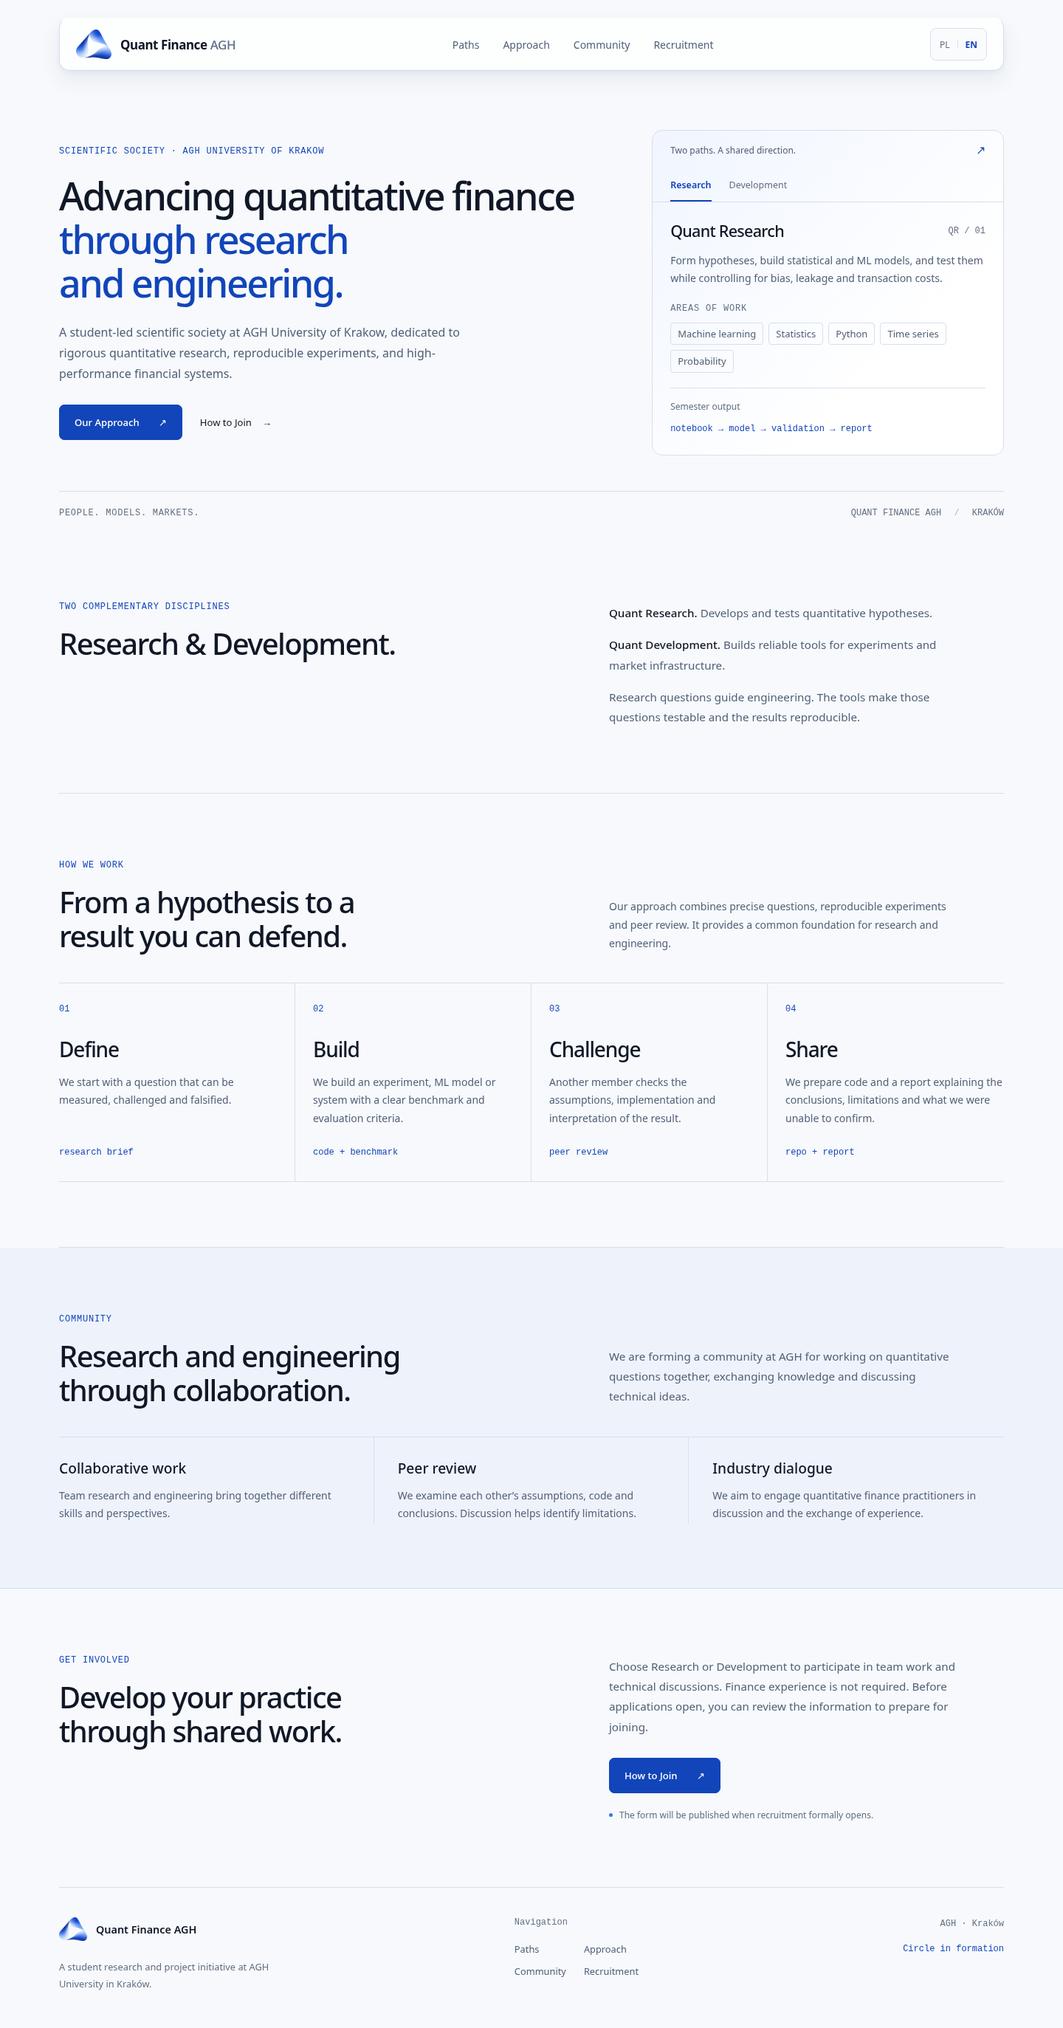
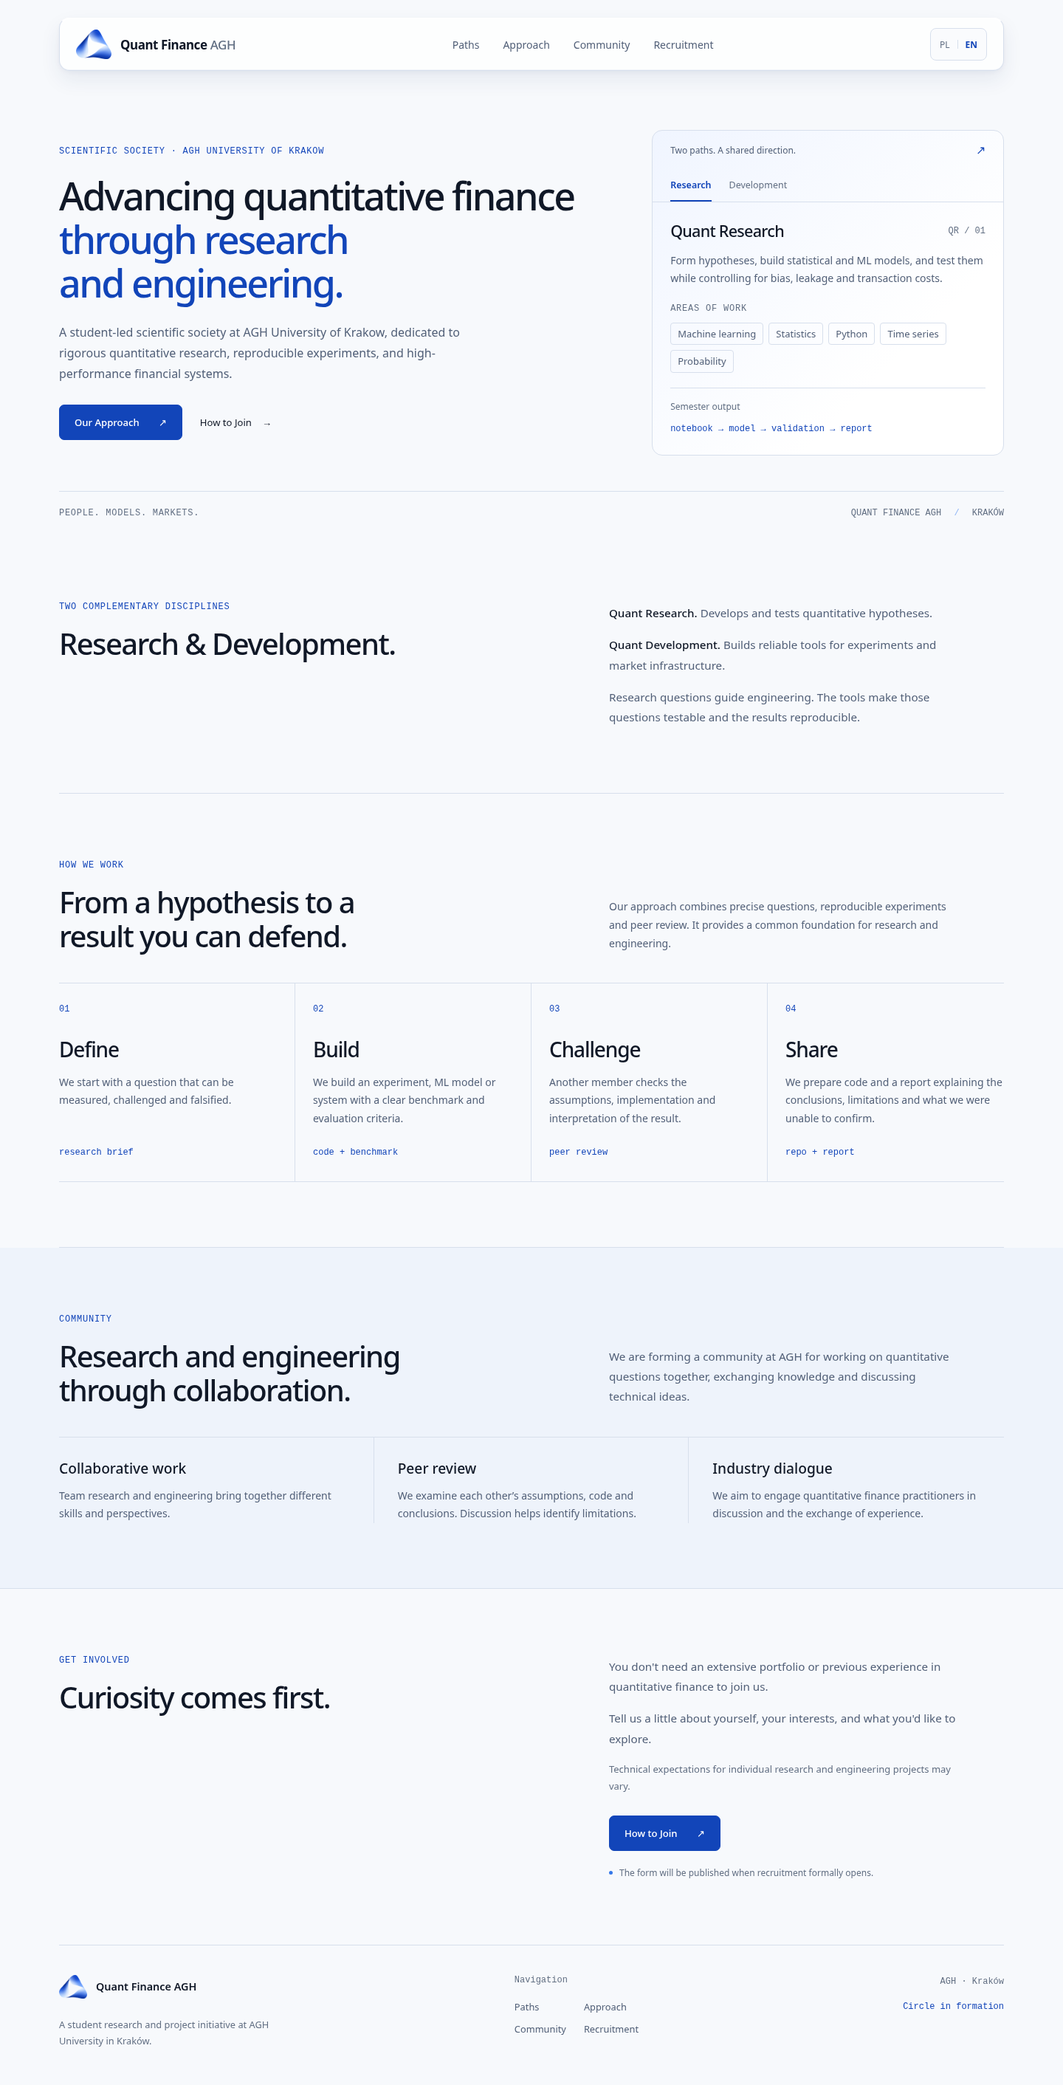
Make society recruitment approachable with a short application preview

diff --git a/src/content.ts b/src/content.ts
@@ -72,14 +72,20 @@ export type SiteCopy = {
   recruitment: {
     eyebrow: string;
     title: string;
-    description: string;
+    description: string[];
+    supportingNote: string;
     formLabel: string;
     previewAction: string;
     closePreview: string;
     sheetEyebrow: string;
     sheetTitle: string;
     sheetDescription: string;
-    items: Array<{ index: string; title: string; description: string }>;
+    items: Array<{ title: string; description: string }>;
+    membershipTitle: string;
+    membershipDescription: string;
+    membershipNotice: string;
+    projectTitle: string;
+    projectDescription: string;
   };
   footer: {
     description: string;
@@ -179,20 +185,31 @@ export const siteCopy: Record<Language, SiteCopy> = {
     },
     recruitment: {
       eyebrow: "Dołącz do nas",
-      title: "Rozwijaj swój warsztat we wspólnej pracy.",
-      description: "Wybierz Research lub Development, aby uczestniczyć w pracy zespołowej i dyskusjach technicznych. Doświadczenie w finansach nie jest wymagane. Zanim uruchomimy nabór, możesz zapoznać się z informacjami potrzebnymi do zgłoszenia.",
+      title: "Najważniejsza jest ciekawość.",
+      description: [
+        "Nie potrzebujesz rozbudowanego portfolio ani doświadczenia w finansach ilościowych, żeby do nas dołączyć.",
+        "Opowiedz nam krótko o sobie, swoich zainteresowaniach i o tym, co chcesz zgłębiać.",
+      ],
+      supportingNote: "Wymagania techniczne poszczególnych projektów badawczych i inżynieryjnych mogą się różnić.",
       formLabel: "Formularz zostanie opublikowany po formalnym uruchomieniu naboru.",
       previewAction: "Jak dołączyć",
       closePreview: "Zamknij",
-      sheetEyebrow: "Przygotowanie zgłoszenia",
-      sheetTitle: "Cztery rzeczy, które chcemy o Tobie wiedzieć.",
-      sheetDescription: "To nie jest jeszcze aktywny formularz. Ta lista pozwala wcześniej przygotować najważniejsze informacje.",
+      sheetEyebrow: "Jak dołączyć",
+      sheetTitle: "Na początek krótkie zgłoszenie.",
+      sheetDescription: "Po otwarciu naboru krótki formularz pozwoli nam poznać Ciebie i Twoje zainteresowania. Poniżej opisujemy planowane informacje — to jeszcze nie jest aktywny formularz.",
       items: [
-        { index: "01", title: "CV", description: "Krótko pokaż wykształcenie, umiejętności techniczne i dotychczasową aktywność." },
-        { index: "02", title: "Kilka zdań o sobie", description: "Napisz, czym się interesujesz i czy bliżej Ci do Research, czy Development." },
-        { index: "03", title: "Realizowane projekty", description: "Opisz problem, swój wkład, użyte narzędzia oraz najważniejszą lekcję." },
-        { index: "04", title: "Motywacja", description: "Wyjaśnij, dlaczego chcesz dołączyć właśnie do AGH Quant Finance." },
+        { title: "Dane kontaktowe", description: "Imię, nazwisko i adres e-mail." },
+        { title: "Studia", description: "Kierunek i rok studiów." },
+        { title: "Preferowana ścieżka", description: "Quant Research, Quant Development lub obie." },
+        { title: "Zainteresowania", description: "Krótka odpowiedź o Twoich zainteresowaniach naukowych lub technicznych." },
+        { title: "Link do profilu (opcjonalnie)", description: "GitHub lub LinkedIn, jeśli chcesz go udostępnić." },
+        { title: "Udział w projekcie", description: "Czy interesuje Cię dołączenie do projektu." },
       ],
+      membershipTitle: "Członkostwo w kole",
+      membershipDescription: "Dla studentów zainteresowanych finansami ilościowymi, matematyką, programowaniem lub pokrewnymi dziedzinami. Doświadczenie w finansach nie jest wymagane.",
+      membershipNotice: "Formalne członkostwo wymaga zatwierdzenia przez Zarząd zgodnie z regulaminem koła. Samo dołączenie do serwera Discord nie oznacza członkostwa.",
+      projectTitle: "Udział w projektach",
+      projectDescription: "Liderzy poszczególnych projektów badawczych i inżynieryjnych mogą określać wymagania techniczne, nakład czasu oraz zasady wyboru uczestników.",
     },
     footer: {
       description: "Studencka inicjatywa badawczo-projektowa na AGH w Krakowie.",
@@ -290,20 +307,31 @@ export const siteCopy: Record<Language, SiteCopy> = {
     },
     recruitment: {
       eyebrow: "Get involved",
-      title: "Develop your practice through shared work.",
-      description: "Choose Research or Development to participate in team work and technical discussions. Finance experience is not required. Before applications open, you can review the information to prepare for joining.",
+      title: "Curiosity comes first.",
+      description: [
+        "You don't need an extensive portfolio or previous experience in quantitative finance to join us.",
+        "Tell us a little about yourself, your interests, and what you'd like to explore.",
+      ],
+      supportingNote: "Technical expectations for individual research and engineering projects may vary.",
       formLabel: "The form will be published when recruitment formally opens.",
       previewAction: "How to Join",
       closePreview: "Close",
-      sheetEyebrow: "Application preparation",
-      sheetTitle: "Four things we want to know about you.",
-      sheetDescription: "This is not the active application form yet. The list helps you prepare the essential information in advance.",
+      sheetEyebrow: "How to Join",
+      sheetTitle: "Joining starts with a short application.",
+      sheetDescription: "When recruitment opens, a short application will help us learn about you and your interests. The information below is a preview, not an active form.",
       items: [
-        { index: "01", title: "CV", description: "Briefly show your education, technical skills and relevant activity." },
-        { index: "02", title: "A short introduction", description: "Tell us what interests you and whether Research or Development is a better fit." },
-        { index: "03", title: "Projects", description: "Describe the problem, your contribution, the tools used and the most important lesson." },
-        { index: "04", title: "Motivation", description: "Explain why you want to join AGH Quant Finance specifically." },
+        { title: "Contact details", description: "Your name and email address." },
+        { title: "Studies", description: "Your field and year of study." },
+        { title: "Preferred track", description: "Quant Research, Quant Development, or both." },
+        { title: "Interests", description: "A short answer about your academic or technical interests." },
+        { title: "Profile link (optional)", description: "GitHub or LinkedIn, if you'd like to share one." },
+        { title: "Project participation", description: "Whether you're interested in joining a project." },
       ],
+      membershipTitle: "Society membership",
+      membershipDescription: "For students interested in quantitative finance, mathematics, programming or related fields. Prior finance experience is not required.",
+      membershipNotice: "Formal membership requires Board approval under the society's official regulations. Joining the Discord server alone does not grant membership.",
+      projectTitle: "Project participation",
+      projectDescription: "Leaders of individual research and engineering projects may set technical prerequisites, time commitments and selection processes.",
     },
     footer: {
       description: "A student research and project initiative at AGH University in Kraków.",

diff --git a/src/styles.css b/src/styles.css
@@ -136,7 +136,9 @@ a { color: inherit; }
 .recruitment { position: relative; padding-block: var(--space-7); }
 .recruitment__inner { display: grid; grid-template-columns: 1.12fr .88fr; gap: 64px; align-items: start; }
 .recruitment__copy { padding-top: 4px; }
-.recruitment__copy > p { max-width: 480px; margin: 0 0 28px; color: var(--muted); font-size: .95rem; line-height: 1.8; }
+.recruitment__description p { max-width: 480px; margin: 0 0 16px; color: var(--muted); font-size: .95rem; line-height: 1.8; }
+.recruitment__description p:last-child { margin-bottom: 0; }
+.recruitment__supporting-note { max-width: 480px; margin: 16px 0 28px; color: var(--quiet); font-size: .8125rem; line-height: 1.75; }
 .form-status { display: flex; align-items: flex-start; gap: 9px; margin-top: 20px; color: var(--quiet); font-size: .75rem; line-height: 1.6; }
 .form-status i { flex: 0 0 5px; height: 5px; border-radius: 50%; margin-top: 7px; background: var(--blue-cobalt); }
 .sheet-scrim { position: fixed; z-index: 190; inset: 0; border: 0; background: rgb(16 24 39 / 35%); opacity: 0; pointer-events: none; transition: opacity 180ms ease; }
@@ -148,13 +150,11 @@ a { color: inherit; }
 .application-sheet h2 { margin: 14px 0 0; font-size: 2rem; line-height: 1.2; letter-spacing: -.03em; font-weight: 550; }
 .sheet-close { flex: 0 0 auto; width: 44px; height: 44px; border: 1px solid var(--line); border-radius: 8px; background: var(--bg); color: var(--ink); cursor: pointer; font-size: 1.4rem; }
 .application-sheet__description { max-width: 650px; margin: 24px 0 30px; color: var(--muted); font-size: .9rem; line-height: 1.75; }
-.application-items { display: grid; grid-template-columns: repeat(2, 1fr); border: 1px solid var(--line); }
-.application-items article { display: grid; grid-template-columns: 24px 1fr; gap: 18px; padding: 22px; border-right: 1px solid var(--line); border-bottom: 1px solid var(--line); }
-.application-items article:nth-child(2n) { border-right: 0; }
-.application-items article:nth-last-child(-n + 2) { border-bottom: 0; }
-.application-items article > span { color: var(--accent); font: .75rem var(--mono); }
-.application-items h3 { margin: 0 0 9px; font-size: 1rem; font-weight: 550; }
-.application-items p { margin: 0; color: var(--muted); font-size: .85rem; line-height: 1.7; }
+.application-items { display: grid; grid-template-columns: repeat(2, minmax(0, 1fr)); gap: 24px 32px; margin: 0; padding: 0; list-style: none; }
+.application-items h3, .membership-context h3 { margin: 0 0 9px; font-size: 1rem; font-weight: 550; }
+.application-items p, .membership-context p { margin: 0; color: var(--muted); font-size: .85rem; line-height: 1.7; }
+.membership-context { display: grid; grid-template-columns: repeat(2, minmax(0, 1fr)); gap: 32px; margin-top: 28px; padding-top: 24px; border-top: 1px solid var(--line); }
+.membership-context p + p { margin-top: 12px; }
 .footer { display: grid; grid-template-columns: 1.12fr auto .88fr; gap: 48px; padding-block: 40px 48px; border-top: 1px solid var(--line); }
 .footer__brand { display: grid; align-content: start; grid-template-columns: auto 1fr; align-items: center; gap: 12px; }
 .footer__brand strong { font-size: .9rem; font-weight: 600; }
@@ -238,9 +238,7 @@ a { color: inherit; }
   .work-step:last-child { border-bottom: 0; }
   .application-sheet { bottom: 8px; padding: 24px 18px; width: calc(100% - 16px); border-radius: 14px; }
   .application-sheet h2 { font-size: 1.6rem; }
-  .application-items { grid-template-columns: 1fr; }
-  .application-items article { border-right: 0; }
-  .application-items article:nth-last-child(2) { border-bottom: 1px solid var(--line); }
+  .application-items, .membership-context { grid-template-columns: 1fr; }
   .footer { grid-template-columns: 1fr; gap: 32px; }
 }
 @supports ((backdrop-filter: blur(1px)) or (-webkit-backdrop-filter: blur(1px))) {

diff --git a/src/components/Recruitment.tsx b/src/components/Recruitment.tsx
@@ -61,7 +61,10 @@ export function Recruitment({ copy }: RecruitmentProps) {
           <h2 id="recruitment-title">{copy.title}</h2>
         </div>
         <div className="recruitment__copy" data-reveal>
-          <p>{copy.description}</p>
+          <div className="recruitment__description">
+            {copy.description.map((paragraph) => <p key={paragraph}>{paragraph}</p>)}
+          </div>
+          <p className="recruitment__supporting-note">{copy.supportingNote}</p>
           <button
             className="primary-button pressable"
             type="button"
@@ -91,6 +94,7 @@ export function Recruitment({ copy }: RecruitmentProps) {
         role="dialog"
         aria-modal="true"
         aria-labelledby="application-sheet-title"
+        aria-describedby="application-sheet-description"
         aria-hidden={!sheetOpen}
         data-open={sheetOpen ? "" : undefined}
       >
@@ -101,11 +105,22 @@ export function Recruitment({ copy }: RecruitmentProps) {
             <span aria-hidden="true">×</span><span className="visually-hidden">{copy.closePreview}</span>
           </button>
         </div>
-        <p className="application-sheet__description">{copy.sheetDescription}</p>
-        <div className="application-items">
+        <p className="application-sheet__description" id="application-sheet-description">{copy.sheetDescription}</p>
+        <ul className="application-items">
           {copy.items.map((item) => (
-            <article key={item.index}><span>{item.index}</span><div><h3>{item.title}</h3><p>{item.description}</p></div></article>
+            <li key={item.title}><h3>{item.title}</h3><p>{item.description}</p></li>
           ))}
+        </ul>
+        <div className="membership-context">
+          <section aria-labelledby="membership-title">
+            <h3 id="membership-title">{copy.membershipTitle}</h3>
+            <p>{copy.membershipDescription}</p>
+            <p>{copy.membershipNotice}</p>
+          </section>
+          <section aria-labelledby="project-participation-title">
+            <h3 id="project-participation-title">{copy.projectTitle}</h3>
+            <p>{copy.projectDescription}</p>
+          </section>
         </div>
       </aside>
     </section>

diff --git a/docs/phase-2-review.md b/docs/phase-2-review.md
@@ -8,9 +8,15 @@ The homepage presents five sections: the approved academic hero and interactive 
 
 Lower sections share aligned heading and text columns, a restrained type scale, and subtle separators. The Define → Build → Challenge → Share component uses open columns instead of enclosed cards; tablet and mobile reflow preserve the sequence. Section spacing and footer proportions have been tightened. The official logo, light cobalt/blue/slate palette, glass navigation, hero composition, and minimal motion remain intact.
 
-Header and footer links are Paths / Approach / Community / Recruitment, with Polish equivalents. The hero's primary CTA is Our Approach (`#approach`); How to Join still leads to the recruitment preparation section. All section links resolve to focusable targets below the floating navigation. No active UI links to the removed project section.
+Header and footer links are Paths / Approach / Community / Recruitment, with Polish equivalents. The hero's primary CTA is Our Approach (`#approach`); How to Join still leads to Get Involved. All section links resolve to focusable targets below the floating navigation. No active UI links to the removed project section.
 
-Community focuses on collaborative research and engineering, peer review, discussion, and the ambition to engage practitioners. It makes no claim of established partnerships. Get Involved pairs a prominent heading with a short description, the bilingual How to Join button and application-status notice. The redundant path requirements, their copy fields and styles have been removed. The preparation dialog, its contents, focus containment/restoration, Escape handling and scroll lock are unchanged.
+Community focuses on collaborative research and engineering, peer review, discussion, and the ambition to engage practitioners. It makes no claim of established partnerships.
+
+Get Involved uses the supplied “Curiosity comes first.” message, two short paragraphs and the note that project-specific technical expectations may vary, with natural Polish translations. Its editorial layout, How to Join interaction and application-status notice remain intact.
+
+The preview explains a future short application through six plain list items: contact details, field/year of study, Research/Development/both, academic or technical interests, an optional GitHub/LinkedIn profile, and interest in a project. It replaces the formal CV/introduction/previous-projects/motivation checklist. Membership is open to interested students without prior finance experience; formal approval remains with the Board under the society's regulations, and joining Discord does not confer membership. Project leaders may set separate technical prerequisites, time commitments and selection processes.
+
+No application URL, active form, uploads or additional membership requirements were added. The dialog retains its focus containment/restoration, Escape handling and scroll lock. Its description is now explicitly associated with the dialog for assistive technology. Six unnumbered entries and two brief contextual sections replace the bordered checklist without introducing decorative cards.
 
 The final polish adds a slightly clearer translucent top edge and softer layered depth to the floating navbar. Its approved transparency and 16px blur remain unchanged, as do the solid material fallbacks. No additional glass surfaces or animations were introduced; all other sections and their bilingual copy are preserved.
 
@@ -39,17 +45,29 @@ Research and Development retain distinct types. Development records have no inve
 - All header/mobile/footer and hero anchors tested with keyboard Enter; correct fragment, target focus and clearance below the floating navbar verified. No dangling anchors or rendered project catalogue.
 - Mobile menu initial focus, Escape closure and focus restoration: passed.
 - Hero tabs: ArrowLeft/ArrowRight/Home/End, selected panel and roving tab focus: passed.
-- Recruitment preview: four preparation items, opening focus, Tab/Shift+Tab containment, Escape and close-button focus restoration: passed.
+- Recruitment refinement checked in EN/PL at 375, 768, 1440 and 1920px: six proposed application details, optional profile link, membership/project distinction and absence of active form controls or application links verified.
+- Dialog opening focus, Tab/Shift+Tab containment, Escape, close-button/backdrop dismissal, scroll lock and focus restoration: passed. Mobile content responds to PageDown and scrolls to the membership/Board/Discord/project notices without horizontal overflow.
 - Skip link, reduced motion and solid reduced-transparency navigation: passed.
 - No horizontal document or visible-element overflow, broken images/favicon assets, failed requests, console errors or JavaScript runtime errors. Visible text is at least 12px.
-- Approved hero text (except the requested primary CTA), track data, and recruitment preparation content compared with the previous version and retained.
+- Requested English recruitment messaging compared verbatim with the brief. All non-recruitment PL/EN content compared with `c0197a1` and unchanged; the existing dialog event handlers are unchanged. Project proposals, branding, navigation and the other sections are untouched by this refinement.
 - Full-page screenshots were captured after scrolling through all reveal sections and confirming every section was visible. Complete desktop and mobile compositions reviewed in both languages.
 
 Firefox and Safari were not independently tested. This PR remains a draft; no merge or production deployment is part of the work.
 
 ## Screenshots and comparison
 
-Full-page captures use 1440 × 1000 and 375 × 1000 browser viewports. Image height follows the complete page content.
+Full-page captures use 1440 × 1000 and 375 × 812 browser viewports. Image height follows the complete page content.
+
+### Recruitment detail
+
+| Language | Desktop section | Mobile section | Desktop preview | Mobile preview |
+| --- | --- | --- | --- | --- |
+| English | [Get Involved](screenshots/recruitment/en-desktop-section.png) | [Get Involved](screenshots/recruitment/en-mobile-section.png) | [How to Join](screenshots/recruitment/en-desktop-preview.png) | [How to Join](screenshots/recruitment/en-mobile-preview.png) |
+| Polish | [Dołącz do nas](screenshots/recruitment/pl-desktop-section.png) | [Dołącz do nas](screenshots/recruitment/pl-mobile-section.png) | [Jak dołączyć](screenshots/recruitment/pl-desktop-preview.png) | [Jak dołączyć](screenshots/recruitment/pl-mobile-preview.png) |
+
+Mobile preview after scrolling to membership and project participation: [English](screenshots/recruitment/en-mobile-membership.png) · [Polish](screenshots/recruitment/pl-mobile-membership.png).
+
+### Complete homepage
 
 | Language | Desktop full page | Mobile full page |
 | --- | --- | --- |
